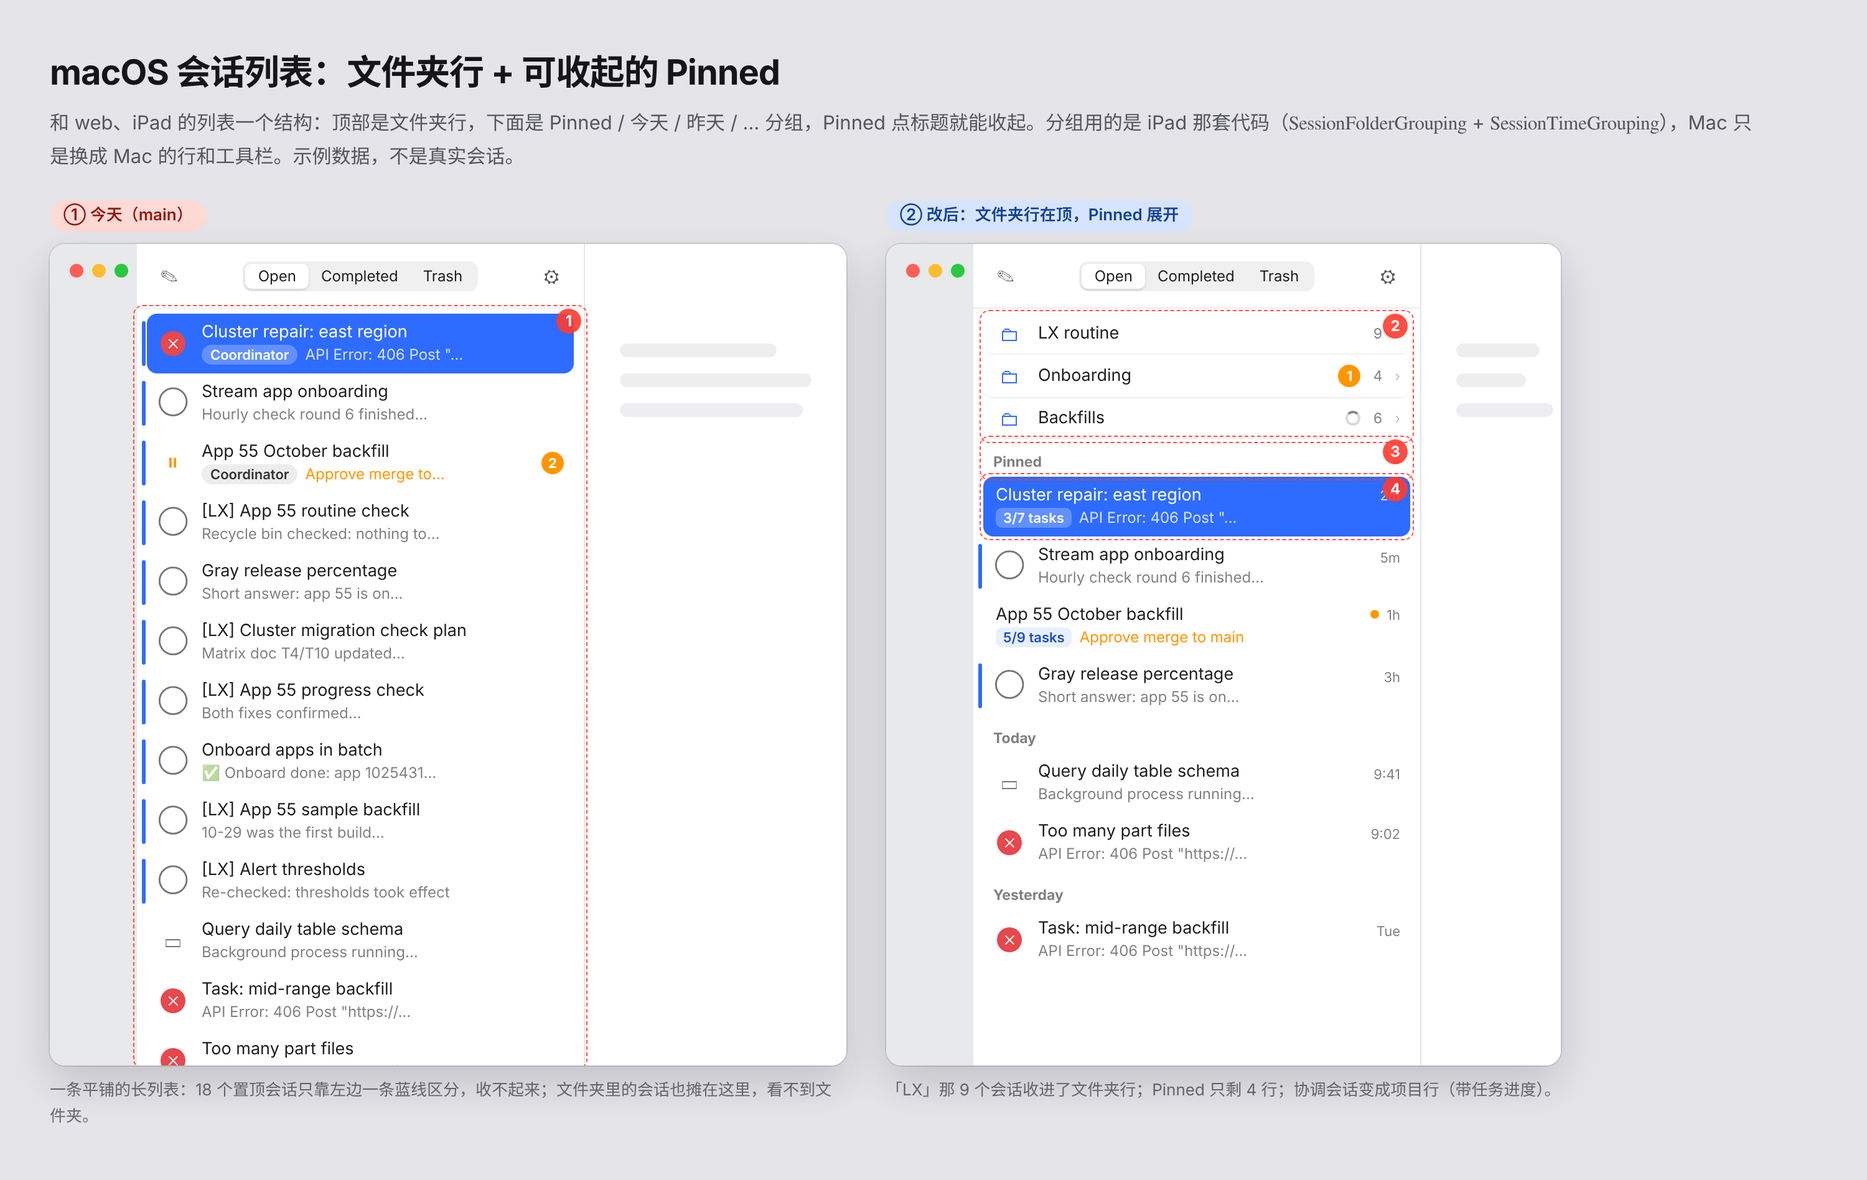
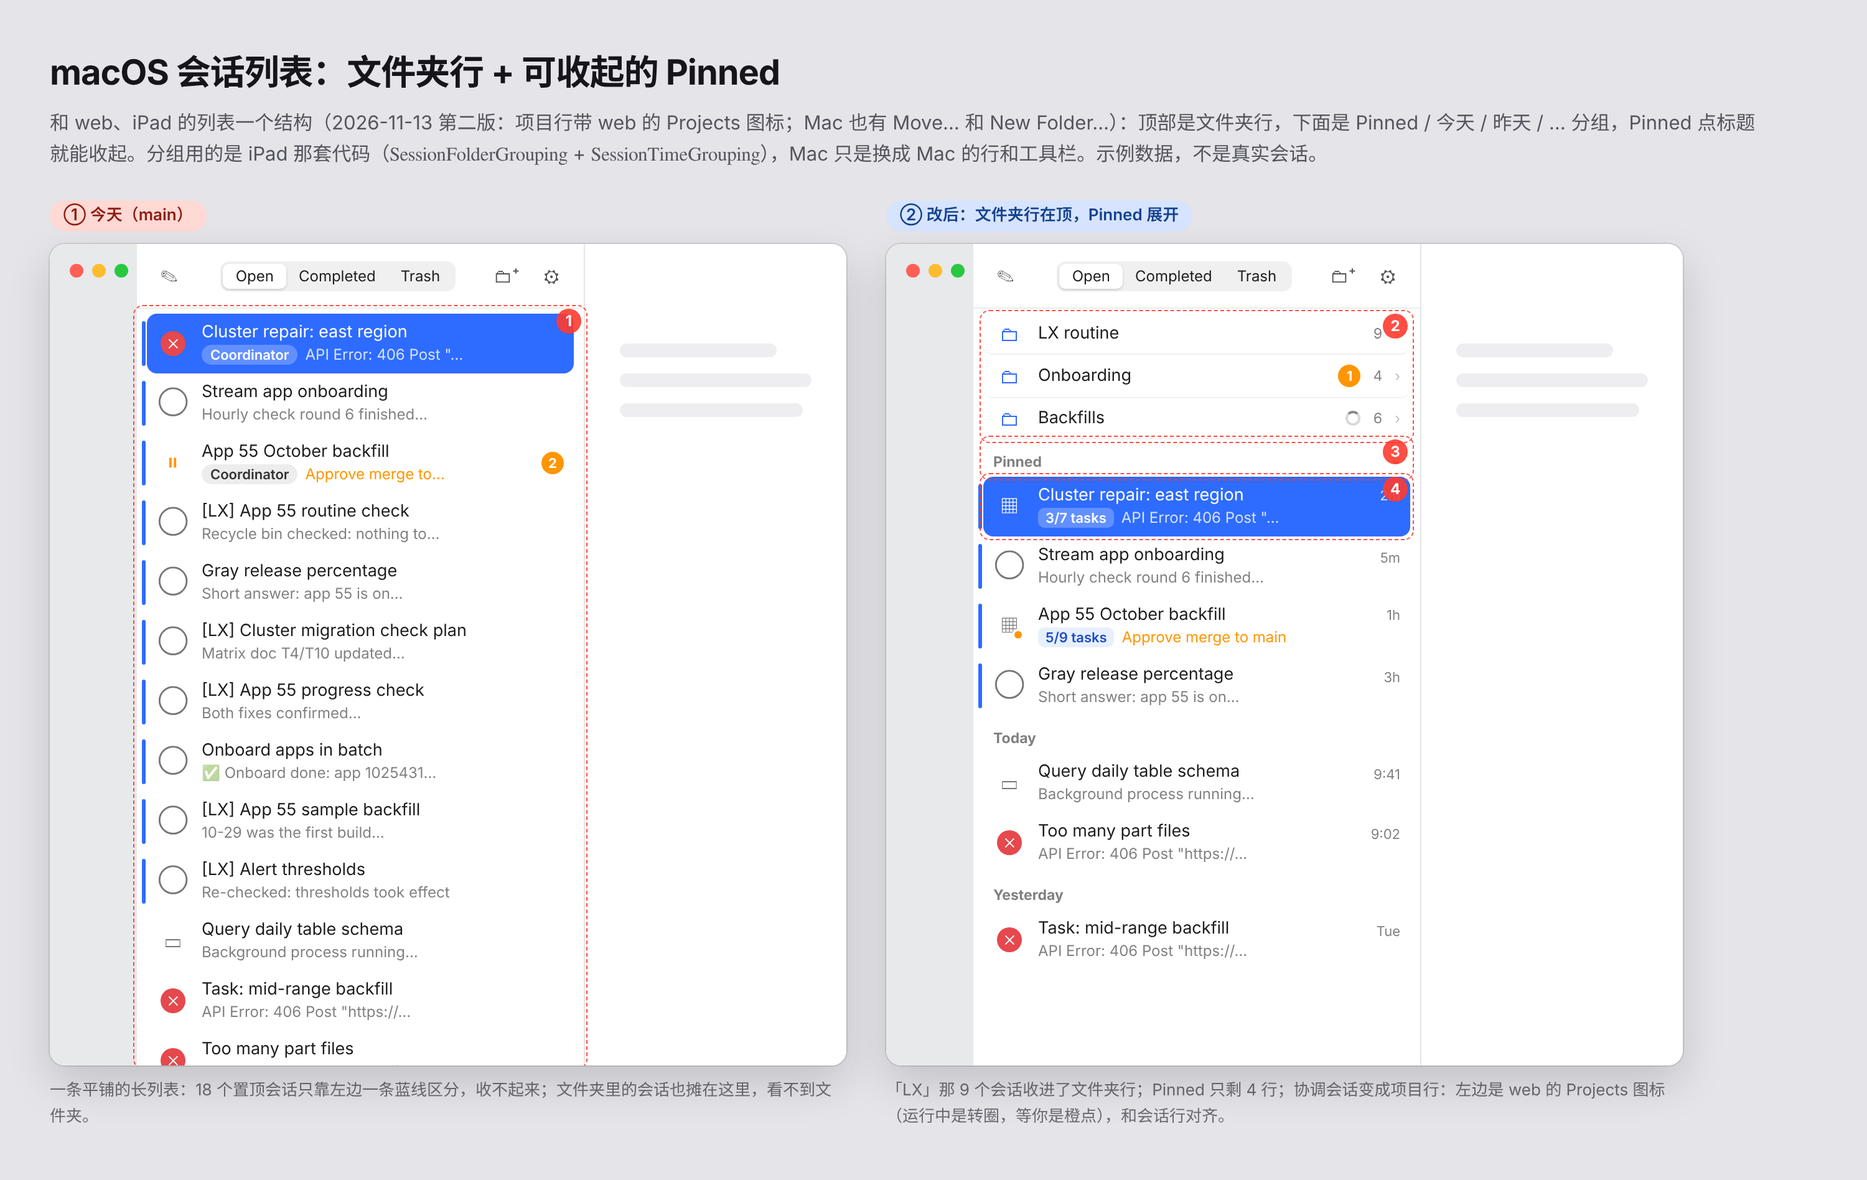
docs(mocks): macOS session list board v2 — project glyph, Move…, New Folder…

diff --git a/docs/mocks/macos-session-folders-pin/01-board.html b/docs/mocks/macos-session-folders-pin/01-board.html
@@ -46,6 +46,7 @@ h1 { font-size:28px; letter-spacing:-.02em; margin:0 0 6px; } h2 { font-size:21p
 .badge { display:inline-block; font-size:11px; font-weight:600; background:rgba(0,0,0,.07); border-radius:999px; padding:0 7px; margin-right:6px; color:#333; }
 .row.sel .badge { background:rgba(255,255,255,.25); color:#fff; }
 .chip { display:inline-block; font-size:11px; font-weight:600; background:#e8f0ff; color:#1e4fc2; border-radius:5px; padding:0 6px; margin-right:6px; }
+.ic.pj { position:relative; font-size:15px; } .ic.pj .pdot { position:absolute; right:3px; bottom:3px; width:6px; height:6px; border-radius:50%; background:var(--amber); box-shadow:0 0 0 2px #fff; }
 .dot { width:7px; height:7px; border-radius:50%; background:var(--amber); flex:none; }
 .hd { display:flex; align-items:center; font-size:11.5px; font-weight:700; color:var(--l2); padding:10px 8px 4px; }
 .hd .sp { flex:1; } .hd .chev { font-size:11px; color:var(--l2); display:inline-block; }
@@ -61,7 +62,7 @@ h1 { font-size:28px; letter-spacing:-.02em; margin:0 0 6px; } h2 { font-size:21p
 .menu { position:absolute; z-index:9; width:200px; background:rgba(246,246,248,.97); border-radius:9px; padding:5px; box-shadow:0 10px 30px rgba(0,0,0,.22),0 0 0 .5px rgba(0,0,0,.18); font-size:13px; }
 .menu .mi { padding:3px 10px; border-radius:5px; } .menu .mi.hi { background:var(--tint); color:#fff; } .menu .mi.red { color:#d70015; }
 .menu .sep { height:1px; background:rgba(0,0,0,.1); margin:4px 8px; }
-.mk { position:absolute; border:1.6px dashed var(--mark); border-radius:8px; pointer-events:none; z-index:7; }
+.mk { position:absolute; border:1.6px dashed var(--mark); border-radius:8px; pointer-events:none; z-index:10; }
 .mk .b-num { position:absolute; top:2px; right:4px; }
 </style>
 </head>
@@ -70,14 +71,14 @@ h1 { font-size:28px; letter-spacing:-.02em; margin:0 0 6px; } h2 { font-size:21p
 <!-- ───────────── part 1 ───────────── -->
 <div class="b-part" id="part-1">
 <h1>macOS 会话列表：文件夹行 + 可收起的 Pinned</h1>
-<p class="lede">和 web、iPad 的列表一个结构：顶部是文件夹行，下面是 Pinned / 今天 / 昨天 / … 分组，Pinned 点标题就能收起。分组用的是 iPad 那套代码（<code>SessionFolderGrouping</code> + <code>SessionTimeGrouping</code>），Mac 只是换成 Mac 的行和工具栏。示例数据，不是真实会话。</p>
+<p class="lede">和 web、iPad 的列表一个结构（2026-11-13 第二版：项目行带 web 的 Projects 图标；Mac 也有 Move… 和 New Folder…）：顶部是文件夹行，下面是 Pinned / 今天 / 昨天 / … 分组，Pinned 点标题就能收起。分组用的是 iPad 那套代码（<code>SessionFolderGrouping</code> + <code>SessionTimeGrouping</code>），Mac 只是换成 Mac 的行和工具栏。示例数据，不是真实会话。</p>
 <div class="b-row">
   <div>
     <span class="b-tag now">① 今天（main）</span>
     <div class="win" id="w-now">
       <div class="side"><div class="tl"><i style="background:#ff5f57"></i><i style="background:#febc2e"></i><i style="background:#28c840"></i></div></div>
       <div class="col">
-        <div class="tb"><span class="tbi">✎</span><div class="seg"><span class="on">Open</span><span>Completed</span><span>Trash</span></div><span class="tbi">⚙</span></div>
+        <div class="tb"><span class="tbi">✎</span><div class="seg"><span class="on">Open</span><span>Completed</span><span>Trash</span></div><span class="tbi">🗀⁺</span><span class="tbi">⚙</span></div>
         <div class="list" id="t1">
           <div class="row sel"><span class="pinbar"></span><span class="ic err">✕</span><div class="tx"><div class="t">Cluster repair: east region</div><div class="sub"><span class="badge">Coordinator</span>API Error: 406 Post "…</div></div></div>
           <div class="row"><span class="pinbar"></span><span class="ic">◯</span><div class="tx"><div class="t">Stream app onboarding</div><div class="sub">Hourly check round 6 finished…</div></div></div>
@@ -103,15 +104,15 @@ h1 { font-size:28px; letter-spacing:-.02em; margin:0 0 6px; } h2 { font-size:21p
     <div class="win" id="w-after">
       <div class="side"><div class="tl"><i style="background:#ff5f57"></i><i style="background:#febc2e"></i><i style="background:#28c840"></i></div></div>
       <div class="col">
-        <div class="tb"><span class="tbi">✎</span><div class="seg"><span class="on">Open</span><span>Completed</span><span>Trash</span></div><span class="tbi">⚙</span></div>
+        <div class="tb"><span class="tbi">✎</span><div class="seg"><span class="on">Open</span><span>Completed</span><span>Trash</span></div><span class="tbi">🗀⁺</span><span class="tbi">⚙</span></div>
         <div class="list">
           <div id="t2"><div class="frow"><span class="fi">🗀</span><span class="fn">LX routine</span><span class="ct">9</span><span class="cv">›</span></div>
           <div class="frow"><span class="fi">🗀</span><span class="fn">Onboarding</span><span class="cap">1</span><span class="ct">4</span><span class="cv">›</span></div>
           <div class="frow"><span class="fi">🗀</span><span class="fn">Backfills</span><span class="spin"></span><span class="ct">6</span><span class="cv">›</span></div></div>
           <div class="hd fold" id="t3">Pinned<span class="sp"></span><span class="chev" style="transform:rotate(90deg)">›</span></div>
-          <div class="row sel" id="t4"><div class="tx" style="padding-left:2px"><div class="t" style="display:flex">Cluster repair: east region<span style="flex:1"></span><span style="font-size:11px;opacity:.8">2m</span></div><div class="sub"><span class="chip" style="background:rgba(255,255,255,.25);color:#fff">3/7 tasks</span>API Error: 406 Post "…</div></div></div>
+          <div class="row sel" id="t4"><span class="pinbar"></span><span class="ic pj" style="color:#fff">▦</span><div class="tx"><div class="t" style="display:flex">Cluster repair: east region<span style="flex:1"></span><span style="font-size:11px;opacity:.8">2m</span></div><div class="sub"><span class="chip" style="background:rgba(255,255,255,.25);color:#fff">3/7 tasks</span>API Error: 406 Post "…</div></div></div>
           <div class="row"><span class="pinbar"></span><span class="ic">◯</span><div class="tx"><div class="t">Stream app onboarding</div><div class="sub">Hourly check round 6 finished…</div></div><span class="tm">5m</span></div>
-          <div class="row"><div class="tx" style="padding-left:2px"><div class="t" style="display:flex">App 55 October backfill<span style="flex:1"></span><span class="dot" style="margin:4px 6px 0 0"></span><span class="tm" style="margin:0">1h</span></div><div class="sub"><span class="chip">5/9 tasks</span><span style="color:var(--amber)">Approve merge to main</span></div></div></div>
+          <div class="row"><span class="pinbar"></span><span class="ic pj">▦<i class="pdot"></i></span><div class="tx"><div class="t" style="display:flex">App 55 October backfill<span style="flex:1"></span><span class="tm" style="margin:0">1h</span></div><div class="sub"><span class="chip">5/9 tasks</span><span style="color:var(--amber)">Approve merge to main</span></div></div></div>
           <div class="row"><span class="pinbar"></span><span class="ic">◯</span><div class="tx"><div class="t">Gray release percentage</div><div class="sub">Short answer: app 55 is on…</div></div><span class="tm">3h</span></div>
           <div class="hd">Today</div>
           <div class="row"><span class="ic">▭</span><div class="tx"><div class="t">Query daily table schema</div><div class="sub">Background process running…</div></div><span class="tm">9:41</span></div>
@@ -122,7 +123,7 @@ h1 { font-size:28px; letter-spacing:-.02em; margin:0 0 6px; } h2 { font-size:21p
       </div>
       <div class="detail"><div class="ph" style="top:80px;width:60%"></div><div class="ph" style="top:104px"></div><div class="ph" style="top:128px;width:70%"></div></div>
     </div>
-    <div class="b-cap">「LX」那 9 个会话收进了文件夹行；Pinned 只剩 4 行；协调会话变成项目行（带任务进度）。</div>
+    <div class="b-cap">「LX」那 9 个会话收进了文件夹行；Pinned 只剩 4 行；协调会话变成项目行：左边是 web 的 Projects 图标（运行中是转圈，等你是橙点），和会话行对齐。</div>
   </div>
 </div>
 </div>
@@ -136,7 +137,7 @@ h1 { font-size:28px; letter-spacing:-.02em; margin:0 0 6px; } h2 { font-size:21p
     <div class="win" style="width:440px;height:520px">
       <div class="side" style="width:60px"><div class="tl"><i style="background:#ff5f57"></i><i style="background:#febc2e"></i><i style="background:#28c840"></i></div></div>
       <div class="col" style="width:380px;border-right:0">
-        <div class="tb"><span class="tbi">✎</span><div class="seg"><span class="on">Open</span><span>Completed</span><span>Trash</span></div><span class="tbi">⚙</span></div>
+        <div class="tb"><span class="tbi">✎</span><div class="seg"><span class="on">Open</span><span>Completed</span><span>Trash</span></div><span class="tbi">🗀⁺</span><span class="tbi">⚙</span></div>
         <div class="list">
           <div class="frow"><span class="fi">🗀</span><span class="fn">LX routine</span><span class="ct">9</span><span class="cv">›</span></div>
           <div class="frow"><span class="fi">🗀</span><span class="fn">Onboarding</span><span class="cap">1</span><span class="ct">4</span><span class="cv">›</span></div>
@@ -175,7 +176,7 @@ h1 { font-size:28px; letter-spacing:-.02em; margin:0 0 6px; } h2 { font-size:21p
     <div class="win" style="width:440px;height:520px">
       <div class="side" style="width:60px"><div class="tl"><i style="background:#ff5f57"></i><i style="background:#febc2e"></i><i style="background:#28c840"></i></div></div>
       <div class="col" style="width:380px;border-right:0">
-        <div class="tb"><span class="tbi">✎</span><div class="seg"><span class="on">Open</span><span>Completed</span><span>Trash</span></div><span class="tbi">⚙</span></div>
+        <div class="tb"><span class="tbi">✎</span><div class="seg"><span class="on">Open</span><span>Completed</span><span>Trash</span></div><span class="tbi">🗀⁺</span><span class="tbi">⚙</span></div>
         <div class="list">
           <div class="frow" style="background:rgba(0,0,0,.06)"><span class="fi">🗀</span><span class="fn">LX routine</span><span class="ct">9</span><span class="cv">›</span></div>
           <div class="frow"><span class="fi">🗀</span><span class="fn">Onboarding</span><span class="cap">1</span><span class="ct">4</span><span class="cv">›</span></div>
@@ -191,6 +192,68 @@ h1 { font-size:28px; letter-spacing:-.02em; margin:0 0 6px; } h2 { font-size:21p
 </div>
 </div>
 
+<!-- ───────────── part 4 ───────────── -->
+<div class="b-part" id="part-4">
+<h2>⑥ 右键会话 → Move…　⑦ Move 面板　⑧ 工具栏 New Folder…</h2>
+<div class="b-row">
+  <div>
+    <span class="b-tag after">⑥ 右键会话行</span>
+    <div class="win" style="width:440px;height:470px">
+      <div class="side" style="width:60px"><div class="tl"><i style="background:#ff5f57"></i><i style="background:#febc2e"></i><i style="background:#28c840"></i></div></div>
+      <div class="col" style="width:380px;border-right:0">
+        <div class="tb"><span class="tbi">✎</span><div class="seg"><span class="on">Open</span><span>Completed</span><span>Trash</span></div><span class="tbi">🗀⁺</span><span class="tbi">⚙</span></div>
+        <div class="list">
+          <div class="frow"><span class="fi">🗀</span><span class="fn">LX routine</span><span class="ct">9</span><span class="cv">›</span></div>
+          <div class="hd">Today</div>
+          <div class="row" style="background:rgba(0,0,0,.06)"><span class="ic">▭</span><div class="tx"><div class="t">Query daily table schema</div><div class="sub">Background process running…</div></div><span class="tm">9:41</span></div>
+          <div class="row"><span class="ic err">✕</span><div class="tx"><div class="t">Too many part files</div><div class="sub">API Error: 406 Post "https://…</div></div><span class="tm">9:02</span></div>
+        </div>
+      </div>
+      <div class="menu" id="t6" style="left:190px;top:150px"><div class="mi">✎ Rename…</div><div class="mi">📌 Pin</div><div class="mi">🏷 Tags…</div><div class="mi">✓ Complete</div><div class="mi hi">🗀 Move…</div><div class="sep"></div><div class="mi red">🗑 Delete</div></div>
+    </div>
+  </div>
+  <div>
+    <span class="b-tag after">⑦ Move 面板（iOS 同一个，Mac 上是 sheet）</span>
+    <div class="win" style="width:480px;height:470px;flex-direction:column">
+      <div class="tb" id="t7h" style="justify-content:space-between"><span style="width:40px"></span><div class="ttl"><b>Move</b><small>Query daily table schema</small></div><span style="color:var(--tint);font-weight:600;padding-right:6px">Done</span></div>
+      <div class="list" style="padding:8px 14px;background:#f5f5f7" id="t7">
+        <div class="hd" style="padding-left:4px">FOLDERS IN DATA-PLATFORM</div>
+        <div style="background:#fff;border-radius:9px;padding:2px 0">
+          <div class="frow"><span class="fi" style="color:#888">▤</span><span class="fn">No Folder</span><span style="color:var(--tint);font-weight:700">✓</span></div>
+          <div class="frow"><span class="fi" style="color:#5856d6">🗀</span><span class="fn">LX routine</span><span class="ct">9</span></div>
+          <div class="frow"><span class="fi" style="color:#5856d6">🗀</span><span class="fn">Backfills</span><span class="ct">6</span></div>
+          <div class="frow" style="border-bottom:0"><span class="fi">🗀⁺</span><span class="fn">New Folder…</span></div>
+        </div>
+        <div class="hd" style="padding-left:4px">MOVE TO ANOTHER WORKSPACE</div>
+        <div style="background:#fff;border-radius:9px;padding:2px 0">
+          <div class="frow"><span class="fi" style="color:#d97757">✳</span><span class="fn">analytics<br><small style="color:var(--l2)">Claude Code · studio-mac</small></span><span class="cv">›</span></div>
+          <div class="frow" style="border-bottom:0;opacity:.45"><span class="fi">◎</span><span class="fn">infra<br><small>Runner offline</small></span></div>
+        </div>
+      </div>
+    </div>
+  </div>
+  <div>
+    <span class="b-tag after">⑧ 工具栏 New Folder…</span>
+    <div class="win" style="width:440px;height:470px">
+      <div class="side" style="width:60px"><div class="tl"><i style="background:#ff5f57"></i><i style="background:#febc2e"></i><i style="background:#28c840"></i></div></div>
+      <div class="col" style="width:380px;border-right:0;position:relative">
+        <div class="tb"><span class="tbi">✎</span><div class="seg"><span class="on">Open</span><span>Completed</span><span>Trash</span></div><span class="tbi" id="t8" style="background:rgba(0,0,0,.08)">🗀⁺</span><span class="tbi">⚙</span></div>
+        <div class="list" style="opacity:.5">
+          <div class="frow"><span class="fi">🗀</span><span class="fn">LX routine</span><span class="ct">9</span><span class="cv">›</span></div>
+          <div class="hd">Today</div>
+          <div class="row"><span class="ic">▭</span><div class="tx"><div class="t">Query daily table schema</div><div class="sub">Background process running…</div></div></div>
+        </div>
+        <div style="position:absolute;left:40px;right:40px;top:120px;background:#f6f6f8;border-radius:12px;box-shadow:0 12px 34px rgba(0,0,0,.25);padding:18px;text-align:center;font-size:13px">
+          <b style="font-size:14px">New Folder</b><div style="color:var(--l2);margin:4px 0 10px">Name the folder.</div>
+          <div style="background:#fff;border:1px solid #ccc;border-radius:6px;padding:4px 8px;text-align:left;color:var(--l3)">Folder name</div>
+          <div style="display:flex;gap:8px;margin-top:12px"><span style="flex:1;background:#fff;border-radius:6px;padding:4px;box-shadow:0 0 0 .5px #bbb">Cancel</span><span style="flex:1;background:var(--tint);color:#fff;border-radius:6px;padding:4px">Create</span></div>
+        </div>
+      </div>
+    </div>
+  </div>
+</div>
+</div>
+
 <!-- ───────────── part 3 ───────────── -->
 <div class="b-part" id="part-3">
 <div class="b-notes"><ol>
@@ -199,27 +262,18 @@ h1 { font-size:28px; letter-spacing:-.02em; margin:0 0 6px; } h2 { font-size:21p
 <li><span class="b-num">3</span><b>Pinned 标题</b>：整条是按钮，› 展开时朝下、收起时朝右；收起状态记在本机（和 iPad 同一个键），换 workspace、重启都保持。文件夹页里的 Pinned 共用这一个开关。</li>
 <li><span class="b-num">4</span><b>文件夹页</b>：占会话列，顶栏 ‹ 返回、标题是文件夹名+workspace 名、⋯（改名/删除）、✎（新会话直接建在这个文件夹里）。右边详情不动。再点侧栏里当前 workspace 也会回到列表。每个 workspace 记得自己停在哪个文件夹。</li>
 <li><span class="b-num">5</span><b>右键</b>：Rename… / Delete Folder…，和 iPad 长按、文件夹页 ⋯ 是同一套对话框和文案。删除文件夹不删会话，会话回到列表。</li>
+<li><span class="b-num">6</span><b>会话右键 Move…</b>：和 iOS 长按菜单同一位置（Complete 之后、Delete 之前）；项目行的右键也有 Move（搬的是 coordinator）。Trash 里没有。</li>
+<li><span class="b-num">7</span><b>Move 面板</b>：就是 iOS 的那个：本 workspace 的文件夹（当前的打勾、New Folder…），下面是搬到其他 Workspace（点进去选那边的文件夹并确认）。Mac 上是窗口 sheet，Done 在右上。</li>
+<li><span class="b-num">8</span><b>New Folder…</b>：iPhone 在 ≡ 菜单里，Mac 放在工具栏设置齿轮旁边；Trash 视图里置灰（那里不画文件夹行）。</li>
 </ol></div>
 
-<div class="q"><h3>待定 · 要你拍板</h3></div>
-<div class="b-row">
-  <div class="opt rec"><h3>A. 项目行跟着进 Mac 列表<span class="rec-tag">推荐 · 已实现</span></h3>
-    <p>分组代码是 iPad / web 共用的，协调会话变成项目行（标题 + 任务进度 chip + 状态行），点它进项目的会话页 —— 和 web 一致，也和 Mac 侧栏的项目行进的是同一页。</p>
-    <p>注意：项目行没有左边的圆形图标（iOS 的行本来就没有），在 Mac 上和会话行左边对不齐，见 ② 的第一行。要补一个图标可以另开一小步。</p></div>
-  <div class="opt"><h3>B. Mac 列表不出项目行</h3>
-    <p>协调会话保持普通会话行 + Coordinator 标签（今天的样子），只加文件夹和 Pinned。和 web 不一致，但改动更小。</p></div>
-</div>
-<div class="b-row" style="margin-top:16px">
-  <div class="opt rec"><h3>C. Move / New Folder… 先只留 iOS<span class="rec-tag">推荐 · 已实现</span></h3>
-    <p>这次 Mac 只能看、进、改名、删除文件夹；把会话放进文件夹还得在 iPhone / iPad / web 上做。项目行菜单里的 Move 在 Mac 上隐藏，免得点了没反应。</p></div>
-  <div class="opt"><h3>D. Mac 也补 Move 和 New Folder…</h3>
-    <p>右键菜单加 Move…（弹 Move 面板）、工具栏加 New Folder…，和 web 完全对齐。要把 iOS 的 Move 面板搬到 Mac，单独一步。</p></div>
-</div>
+<div class="q"><h3>已拍板（2026-11-13）</h3>
+<p style="margin:6px 0 0">① 项目行：和 web 保持一致 —— 进 Mac 列表，左边补上 web 的 Projects 图标。② Move / New Folder…：引入 Mac，和 iOS 保持一致。会话页（console）⋯ 菜单里的 Move 还没上 Mac，另做。</p></div>
 </div>
 
 <script>
 window.drawMarks = () => {
-  const marks = [['t1',1],['t2',2],['t3',3],['t4',4],['t3b',3],['t4b',4],['t5',5]];
+  const marks = [['t1',1],['t2',2],['t3',3],['t4',4],['t3b',3],['t4b',4],['t5',5],['t6',6],['t7',7],['t8',8]];
   for (const [id, n] of marks) {
     const el = document.getElementById(id), win = el.closest('.win');
     const w = win.getBoundingClientRect(), r = el.getBoundingClientRect(), pad = 3;
